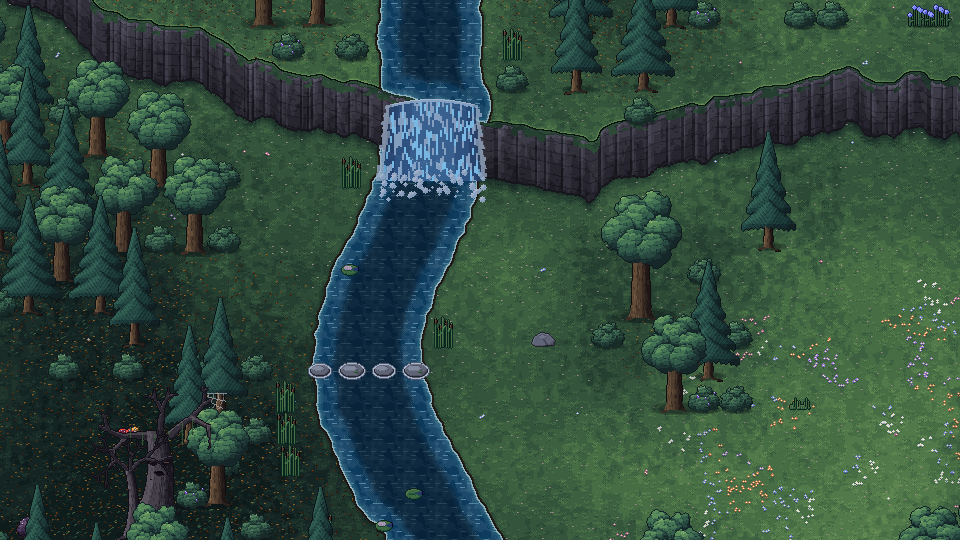
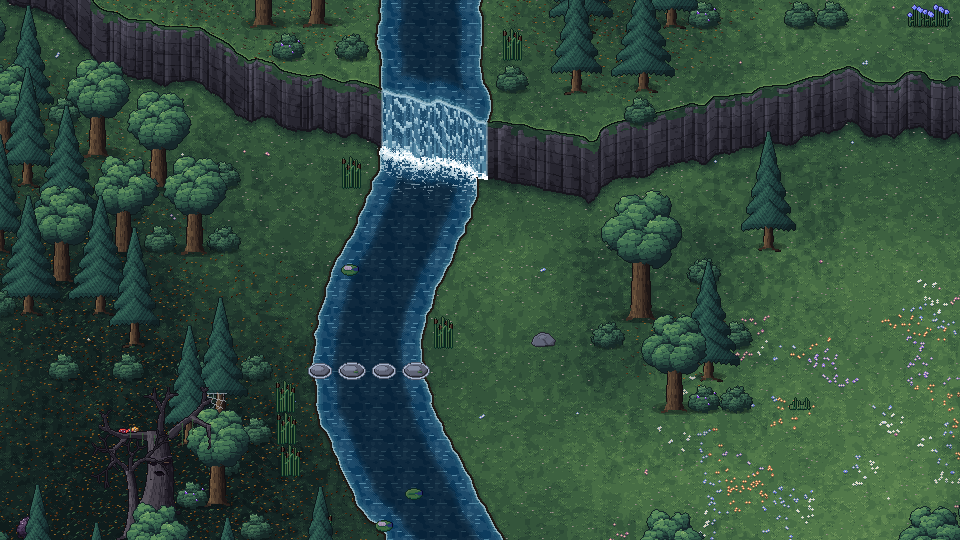
Cascada a la medida del acantilado, con espuma, estela, bruma y gotas
Kit regenerado con la cascada nueva de PixelForja: solo cambian la cascada, su postal, la vista del mapa y su
posición en el mapa. Las partículas de la cascada salen a lo largo de la línea 'espuma' del kit (gotas y bruma
blanca). Notas en PROGRESO.md.

Claude-Session: https://claude.ai/code/session_01FVGDw8m8HkUtXF2k5wxUDf

Changed region(s): [[0.375, 0.1778, 0.5312, 0.3852]]

diff --git a/src/fx/Particulas.ts b/src/fx/Particulas.ts
@@ -123,7 +123,7 @@ export class Particulas {
       h = d.h
     }
     const s = this.libres.pop() ?? this.escena.add.sprite(0, 0, tex, 0)
-    s.setTexture(tex, 0).setActive(true).setVisible(true).setAlpha(0).setScale(1).setAngle(0).setFlipX(false).setOrigin(0.5, 0.5)
+    s.setTexture(tex, 0).setActive(true).setVisible(true).setAlpha(0).setScale(1).setAngle(0).setFlipX(false).setOrigin(0.5, 0.5).clearTint()
     const brilla = BRILLAN.has(tipo) || llave === 'brillo'
     s.setBlendMode(brilla ? Phaser.BlendModes.ADD : Phaser.BlendModes.NORMAL)
     s.setDepth(brilla ? PROF.BRILLA_EN_OSCURO : PROF.PARTICULAS)
@@ -294,9 +294,25 @@ export class Particulas {
         case 'antorcha':
           emite('b', 3.5, () => this.crear('mota', 'brasa', d.x + (r() - 0.5) * 4, d.y - 40, { vx: (r() - 0.5) * 8, vy: -14 - r() * 12, vida: 0.6 + r() * 0.7, local: true }))
           break
-        case 'cascada':
-          emite('g', 14, () => this.crear('mota', 'gota', d.x + (r() - 0.5) * 100, d.y - 10 + r() * 6, { vx: (r() - 0.5) * 20, vy: -28 - r() * 24, gravedad: 120, vida: 0.7, local: true }))
+        case 'cascada': {
+          // a lo largo de la línea donde el agua golpea: gotas que saltan y bruma blanca que sube
+          const e = d.def.espuma ?? [-50, 0, 50, 0]
+          const punto = (): [number, number] => {
+            const u = r()
+            return [d.x + e[0] + (e[2] - e[0]) * u, d.y + e[1] + (e[3] - e[1]) * u]
+          }
+          const largo = Math.hypot(e[2] - e[0], e[3] - e[1])
+          emite('g', largo * 0.18, () => {
+            const [x, y] = punto()
+            this.crear('mota', 'gota', x, y - 2 + r() * 4, { vx: (r() - 0.5) * 24, vy: -30 - r() * 30, gravedad: 120, vida: 0.7, local: true })
+          })
+          emite('h', largo * 0.025, () => {
+            const [x, y] = punto()
+            const p = this.crear('mota', 'humo', x, y - 4, { vx: (r() - 0.5) * 6, vy: -6 - r() * 6, vida: 2.4, porEdad: true, alfaMax: 0.45, local: true })
+            p?.s.setTint(0xdff2ff)
+          })
           break
+        }
         case 'hongo_gigante_azul':
         case 'hongo_gigante_morado':
           emite('e', 1.6, () => this.crear('mota', 'espora', d.x + (r() - 0.5) * 24, d.y - 46 - r() * 8, { vx: (r() - 0.5) * 4, vy: -4 - r() * 4, vida: 3 + r() * 2, local: true }))

diff --git a/src/kit/tipos.ts b/src/kit/tipos.ts
@@ -58,6 +58,8 @@ export interface ObjetoMundo {
   solidos?: Rect4[]
   capa?: 'suelo'
   luz?: LuzObjeto
+  /** línea donde el agua golpea abajo (cascada), relativa al apoyo [x0, y0, x1, y1] */
+  espuma?: [number, number, number, number]
   anims: Record<string, AnimHoja>
 }
 

diff --git a/PROGRESO.md b/PROGRESO.md
@@ -51,6 +51,7 @@ Memoria de la sesión larga. Se actualiza al cerrar cada tarea.
 - F5, pantalla completa: botón en la pausa (Android y PC). En iPad no existe la API y el botón dice "Instalar" y abre un panel con 3 pasos. Faltan los íconos de Safari: ASSETS_PENDIENTES.md #28.
 - F5, el kit ya está guardado en el repo (`public/assets/kit`, 634 archivos), así que construir NO necesita el submódulo privado. Por eso el plan B de Netlify es mucho más simple de lo que decía el plan: un GitHub Action manual (`.github/workflows/netlify.yml`) sin llaves del submódulo.
 - Orbes de vida y maná rehechos en PixelForja a pedido de Rick (se veía un rectángulo dentro del líquido). El defecto estaba en el arte, no en el juego: `orb()` en `tools/pixel_forja/src/engine/ui/hud.ts` sombreaba con cortes rectos. Ahora es una esfera de vidrio con tramado 4 x 4, superficie en elipse con espuma, burbujas y aro de hierro con hilo de oro. `orbe_*_ola` pasa a 36 cuadros (una ola por nivel 1 a 9). El HUD usa la ola en todos los niveles con líquido y aire, y el orbe solo se ve vacío en 0 y lleno en 100 % (con 1 punto de vida se ve un poquito). La regla de no tocar el taller se rompió a propósito porque Rick pidió el arreglo y el arte tiene que salir de PixelForja, no de código del juego. El cambio está en la rama `claude/ecstatic-ramanujan-oq0r0o` de `pixel_forja` y el submódulo apunta a ese commit.
+- Cascada del Bosque GG rehecha en PixelForja a pedido de Rick: no calzaba con el acantilado (era un trapecio fijo de 100 px puesto en un punto, y el borde de la meseta cruza el río en diagonal) y no echaba espuma. Ahora `bosqueMap` mide cada columna del río (labio real y pie real de la roca) y `fittedWaterfall` pinta la cortina justo encima de la pared, con espuma que hierve, estela río abajo, bruma y gotas, en capa suelo. El kit trae `espuma` (la línea donde golpea el agua) y `Particulas` suelta gotas y bruma a lo largo de esa línea. La cascada reserva el mismo cuadro que la vieja: al regenerar solo cambian la cascada, su postal y la vista del mapa, el resto del bosque, los cofres y los enemigos quedan igual.
 - F1b, las pruebas e2e llegan a cofres, carteles y fogatas por la parada del objeto (`teleport` a la parada): la caminata larga ya la cubre F1a.
 
 - Entrega del taller (5 tandas, submódulo en 8ba7f2a): adoptada en F1a. Decos usa tronco y copa por separado, pasto con sus anims, capa `superficie` para los pasos, 13 postales. Falta usar en sus fases: iconos de cartel (F1b), Abuelo que sonríe (F1b), títulos y logo (F1b), flecha y naturaleza (F2), botín bajo (F3), Thor cava (F3), minotauro 96 y carga (F4), íconos de app (F5). En balance se quitaron las escalas temporales del trol y del minotauro.
@@ -105,6 +106,10 @@ npm run typecheck && npm test && npm run build && npm run e2e
 - Para ganar rápido en una prueba: abrir `?test=1&heroe=rick` y en la consola `__ABYSS__.ponerNivel(10)`, `__ABYSS__.entrarArena()`, `__ABYSS__.danarJefe(9999)`.
 - Los avisos grandes se ven en el piso: círculo que se llena (pisotón y salto), elipse delante (golpe fuerte) y línea roja (la carga). En modo peque duran 1.8 s.
 
+### Cascada
+- `docs/capturas/f5/cascada_y_vado.png` y `cascada_y_vado_tablet.png`: la cortina tapa justo la pared del acantilado y abajo hay espuma y estela.
+- En el juego: `?test=1&heroe=sophie` y en la consola `__ABYSS__.teleport(1760, 960)`.
+
 ### Orbes
 - `docs/capturas/f5/combate_amazona.png` y las demás `combate_*`: los orbes abajo a los lados.
 - `docs/capturas/f5/orbes_niveles.png`: los 11 niveles de vida y de maná, a 2x.
@@ -138,8 +143,8 @@ El juego ya trae el kit dentro del repo, así que Netlify no necesita clonar `pi
 ### 4. Lighthouse
 En Chrome del escritorio, con el sitio abierto: F12, Lighthouse, Progressive Web App (si tu Chrome ya no trae la categoría, el panel Application, Manifest y Service workers muestran los mismos chequeos). No lo pude correr aquí: lo que sí está probado por pruebas automáticas es el manifest, el service worker y el modo sin red.
 
-### 5. Pasar los orbes nuevos a la rama del taller
-El submódulo sigue la rama `claude/perfeccionar-ejecucion-smh3ad` de `pixel_forja`, y el arreglo de los orbes quedó en `claude/ecstatic-ramanujan-oq0r0o` (un solo commit encima de 8ba7f2a). Antes del próximo `git submodule update --remote tools/pixel_forja`, mezclarlo en la rama del taller (PR o merge en GitHub). Si no, el `npm run kit` siguiente trae de vuelta los orbes viejos.
+### 5. Pasar los orbes y la cascada nuevos a la rama del taller
+El submódulo sigue la rama `claude/perfeccionar-ejecucion-smh3ad` de `pixel_forja`, y los arreglos de los orbes y de la cascada quedaron en `claude/ecstatic-ramanujan-oq0r0o` (dos commits encima de 8ba7f2a). Antes del próximo `git submodule update --remote tools/pixel_forja`, mezclarlo en la rama del taller (PR o merge en GitHub). Si no, el `npm run kit` siguiente trae de vuelta los orbes y la cascada viejos.
 
 ### 6. Demo con las niñas
 Ver las secciones "Para que Rick revise" de cada fase.
